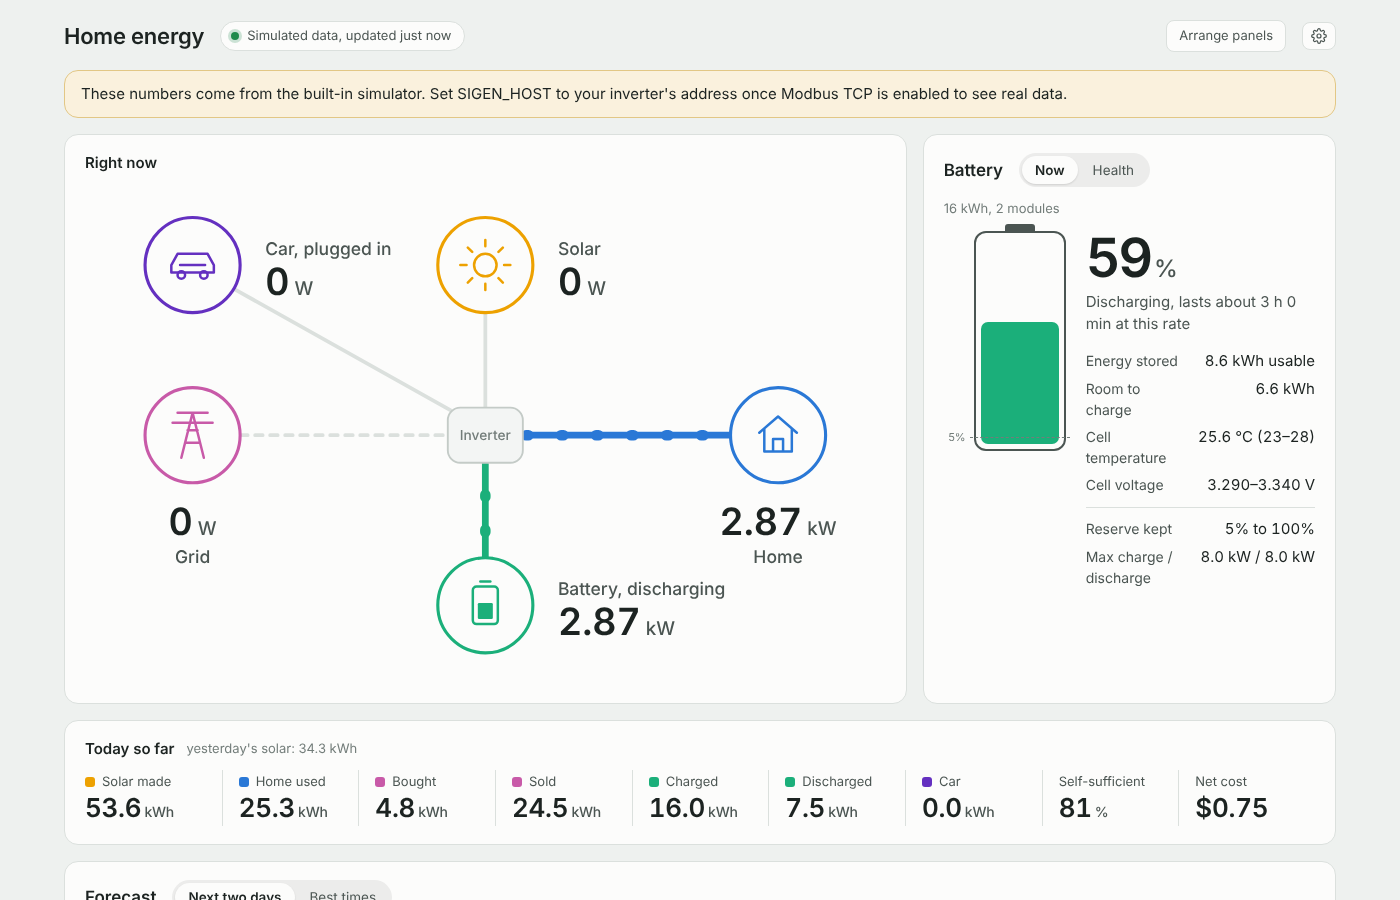
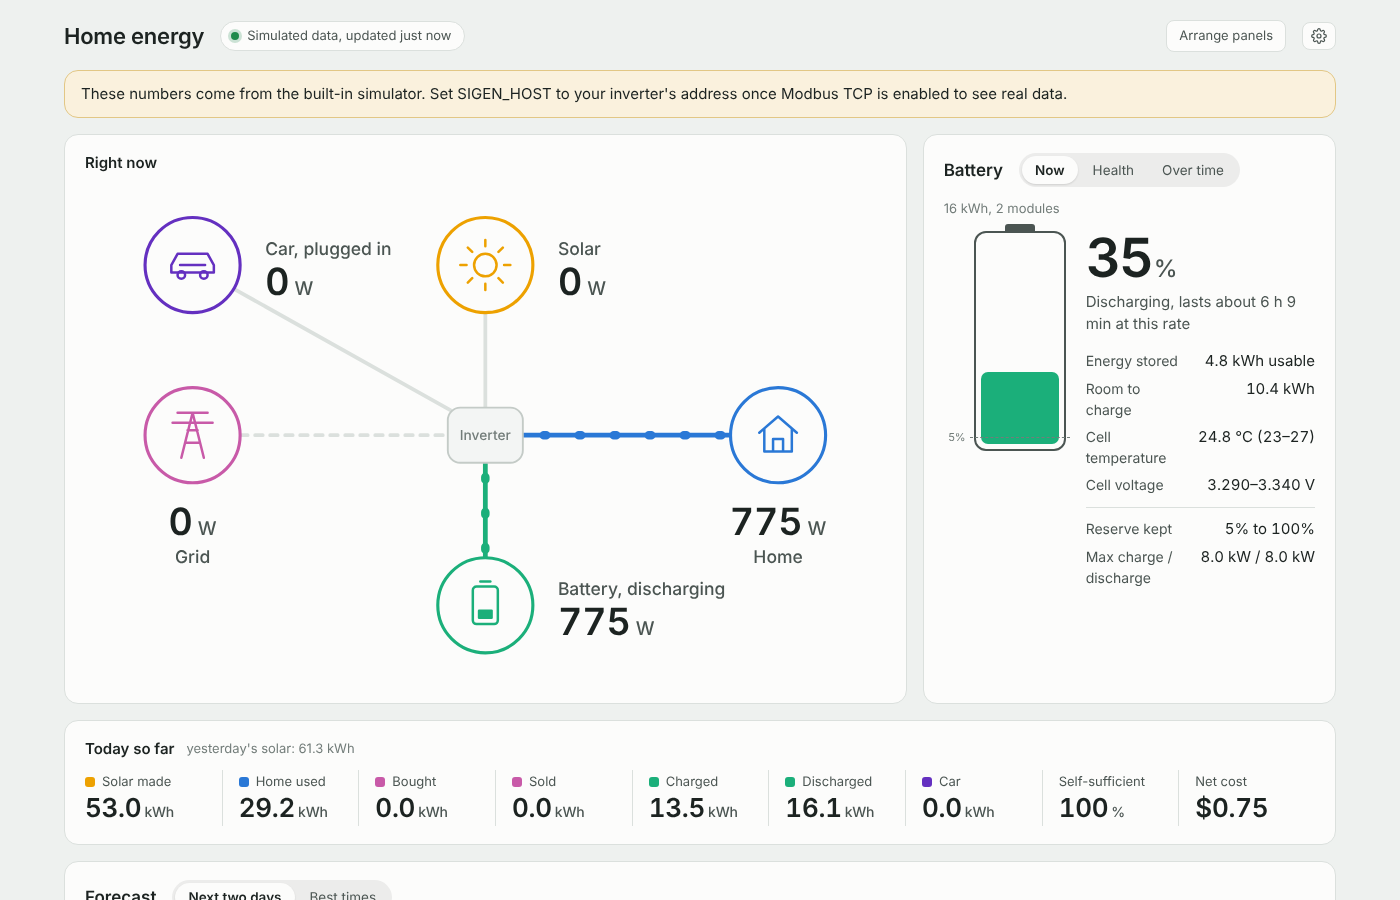
Battery: Over time as its own tab, one height for every tab; Money opens on Payback; System on temperature (2.0.1)
Claude-Session: https://claude.ai/code/session_01M1HyKp74bF4tARcQSQsc8G

diff --git a/web/index.html b/web/index.html
@@ -99,7 +99,7 @@
       <p class="flow-caption visually-hidden" id="caption" aria-live="polite"></p>
     </section>
 
-    <section class="panel span-4 group" data-panel="battery" data-name="Battery" data-together>
+    <section class="panel span-4 group" data-panel="battery" data-name="Battery" data-together data-steady>
       <div class="group-head"><h2>Battery</h2><div class="tabs" role="tablist" aria-label="Battery"></div></div>
       <div class="tabpage" data-tab="Now" role="tabpanel" id="batt-now" aria-labelledby="batt-h">
       <div class="panel-head"><h2 id="batt-h">Battery</h2><span class="sub" id="batt-sub"></span></div>
@@ -129,8 +129,10 @@
         <div class="today wear-tiles" id="wear-tiles"></div>
         <p class="chart-note" id="wear-note"></p>
             </div>
+      </div>
+      <div class="tabpage" data-tab="Over time" role="tabpanel" id="batt-over">
         <div class="part trend" id="tb" hidden>
-          <div class="panel-head"><h3>Over time</h3><div class="legend" id="tb-legend"></div><span class="spacer"></span>
+          <div class="panel-head"><div class="legend" id="tb-legend"></div><span class="spacer"></span>
           <div class="seg" id="tb-metric" role="group" aria-label="Measure">
             <button type="button" data-m="battery" aria-pressed="true">Health</button>
             <button type="button" data-m="batt_temp" aria-pressed="false">Temperature</button>
@@ -384,7 +386,7 @@
       </div>
     </section>
 
-    <section class="panel span-12 group" data-panel="money" data-name="Money">
+    <section class="panel span-12 group" data-panel="money" data-name="Money" data-default="Payback">
       <div class="group-head"><h2>Money</h2><div class="tabs" role="tablist" aria-label="Money"></div></div>
       <div class="tabpage" data-tab="Plans" role="tabpanel" id="wi-panel" aria-labelledby="wi-h" hidden>
       <div class="panel-head"><h2 id="wi-h">What if</h2><span class="sub" id="wi-sub"></span><span class="spacer"></span>
@@ -432,8 +434,8 @@
         <div class="part trend" id="ty" hidden>
           <div class="panel-head"><h3>Over time</h3><div class="legend" id="ty-legend"></div><span class="spacer"></span>
           <div class="seg" id="ty-metric" role="group" aria-label="Measure">
-            <button type="button" data-m="insulation" aria-pressed="true">Insulation</button>
-            <button type="button" data-m="inv_temp" aria-pressed="false">Inverter temperature</button>
+            <button type="button" data-m="inv_temp" aria-pressed="true">Temperature</button>
+            <button type="button" data-m="insulation" aria-pressed="false">Insulation</button>
           </div>
           <div class="seg" id="ty-range" role="group" aria-label="Time range">
             <button type="button" data-d="90" aria-pressed="false">3 months</button>

diff --git a/web/tabs.js b/web/tabs.js
@@ -2,11 +2,13 @@
 // last one chosen remembered in this browser. A tab with nothing to show yet (its page is hidden,
 // or every part on it is) is left out, and the panel hides when none has anything.
 // Panels marked data-together (Battery, System) show all their tabs side by side instead, when
-// they're wide enough (Full width in Arrange panels).
+// they're wide enough (Full width in Arrange panels). Panels marked data-steady keep one height
+// whichever tab is showing.
 (function () {
   const S = window.Sigen, el = S.el;
   const groups = [...document.querySelectorAll("section.group[data-panel]")];
-  const KEY = (g) => "sigen.tab." + g.dataset.panel;
+  // a panel's own default tab (data-default) is part of the key, so changing it starts afresh
+  const KEY = (g) => "sigen.tab." + g.dataset.panel + (g.dataset.default ? "." + g.dataset.default : "");
 
   const pages = (g) => [...g.querySelectorAll(":scope > .tabpage")];
   const ready = (p) => !p.hidden && (!p.querySelector(":scope > .part") || [...p.querySelectorAll(":scope > .part")].some((x) => !x.hidden));
@@ -19,11 +21,16 @@
     if (hide) return;
     const together = g.hasAttribute("data-together") && avail.length > 1 && g.clientWidth >= TOGETHER_W;
     if (g.classList.contains("together") !== together) { g.classList.toggle("together", together); redraw(); }
+    // data-steady: every tab takes the height of the tallest, so switching doesn't resize the panel
+    g.classList.toggle("steady", g.hasAttribute("data-steady") && !together);
     let cur = g.dataset.tab;
     const want = S.store.get(KEY(g));
     // the remembered tab, as soon as it has something to show (its data can arrive after the page loads)
     if (!g._chosen && want && avail.some((p) => p.dataset.tab === want)) cur = want;
-    else if (!g._chosen && !want) cur = avail[0].dataset.tab;  // nothing chosen yet: the first tab, once it has data
+    else if (!g._chosen && !want) {  // nothing chosen yet: the panel's default, or its first tab, once it has data
+      const def = avail.find((p) => p.dataset.tab === g.dataset.default);
+      cur = (def || avail[0]).dataset.tab;
+    }
     if (!avail.some((p) => p.dataset.tab === cur)) cur = avail[0].dataset.tab;
     const changed = g.dataset.tab !== cur;
     g.dataset.tab = cur;

diff --git a/web/style.css b/web/style.css
@@ -675,11 +675,18 @@ body.wall-mode { overflow-x: hidden; }
 .tabpage.inactive { display: none; }
 .tabpage { container-type: inline-size; }
 /* wide Battery and System: every tab side by side, no tab bar */
-.group.together { display: grid; grid-template-columns: minmax(320px, 400px) minmax(0, 1fr); column-gap: 28px; align-content: start; }
+.group.together { display: grid; grid-template-columns: minmax(320px, 400px) minmax(0, 1fr); grid-template-rows: auto auto auto 1fr; column-gap: 28px; align-content: start; }
 .group.together > .group-head { grid-column: 1 / -1; }
 .group.together > .group-head .tabs { display: none; }
 .group.together > .tabpage.inactive { display: block; }
-.group.together > .tabpage:not([hidden]) ~ .tabpage:not([hidden]) { border-left: 1px solid var(--rule); padding-left: 28px; }
+.group.together > .tabpage:not([hidden]) ~ .tabpage:not([hidden]) { grid-column: 2; border-left: 1px solid var(--rule); padding-left: 28px; }
+.group.together > .group-head + .tabpage { grid-column: 1; grid-row: 2 / span 3; }
+.group.together > .tabpage:not([hidden]) ~ .tabpage:not([hidden]) ~ .tabpage:not([hidden]) { padding-top: 18px; margin-top: 4px; border-top: 1px solid var(--rule); }
+/* steady panels: all tabs share one cell, the hidden ones invisible but still taking their room */
+.group.steady { display: grid; grid-template-columns: minmax(0, 1fr); align-content: start; }
+.group.steady > .group-head { grid-row: 1; }
+.group.steady > .tabpage { grid-row: 2; grid-column: 1; }
+.group.steady > .tabpage.inactive:not([hidden]) { display: block; visibility: hidden; pointer-events: none; }
 .tabpage > .panel-head > h2 { display: none; }
 .tabpage > .panel-head:not(:has(> :not(h2):not(:empty))) { display: none; }
 .part + .part { margin-top: 22px; padding-top: 16px; border-top: 1px solid var(--rule); }

diff --git a/web/dashboard.js b/web/dashboard.js
@@ -515,7 +515,7 @@
   const TRENDS = [
     { id: "tb", metric: "battery", days: 365 },
     { id: "ts", metric: "pvidx", days: 365 },
-    { id: "ty", metric: "insulation", days: 365 },
+    { id: "ty", metric: "inv_temp", days: 365 },
   ];
   const trCache = {};
   function trendSeries(m, d, t) {
@@ -571,7 +571,7 @@
     if (!box) return;
     const has = !!(d && d.days && d.days.length >= 2);
     if (box.hidden === has) box.hidden = !has;
-    if (!has || (box.closest(".tabpage.inactive") && !box.closest(".group.together"))) return;
+    if (!has || (box.closest(".tabpage.inactive") && !box.closest(".group.together, .group.steady"))) return;
     const t = d.days.map(dayT), lg = $(tr.id + "-legend"), chart = $(tr.id + "-chart");
     const dayTitle = (x) => new Date(x * 1000).toLocaleDateString([], { weekday: "short", day: "numeric", month: "short", year: "numeric" });
     const r = trendSeries(tr.metric, d, t);

diff --git a/collector/config.py b/collector/config.py
@@ -48,7 +48,7 @@ def load_settings_file():
 
 SETTINGS_PATH = load_settings_file()
 
-VERSION = "2.0.0"
+VERSION = "2.0.1"
 ENV = os.environ.get
 SIMULATE = ENV("SIGEN_SIMULATE", "0") == "1"
 HOST = ENV("SIGEN_HOST", "")

diff --git a/README.md b/README.md
@@ -670,17 +670,17 @@ Ten panels; related things share a panel, with tabs. Each panel remembers the ta
 (per browser), and a tab with nothing to show yet is left out:
 
 * **Right now** and **Today so far**
-* **Battery**: Now · Health (wear, warranty, health and temperature over time)
+* **Battery**: Now · Health (wear and warranty) · Over time (health and temperature)
 * **Forecast**: Next two days (battery outlook, weather, four days of solar) · Best times
 * **Car charging**
 * **Prices and the grid**: Your price · The grid
 * **History**: Power · Days · Months · Always-on
 * **Solar**: Strings · Limits · Long term (solar vs weather)
-* **Money**: Plans · Payback · Trading
-* **System**: Status · Health (insulation and inverter temperature over time)
+* **Money**: Payback · Plans · Trading (opens on Payback)
+* **System**: Status · Health (inverter temperature and insulation over time)
 
-Battery and System show both tabs side by side when the panel is wide enough (Full width in
-Arrange panels).
+Battery and System show all their tabs together when the panel is wide enough (Full width in
+Arrange panels). Battery keeps one height whichever tab is showing.
 
 ### Ultrawide monitors
 

diff --git a/CHANGELOG.md b/CHANGELOG.md
@@ -2,6 +2,14 @@
 
 Release notes for each tagged version. The Docker image is tagged with the same version.
 
+## 2.0.1
+
+- **Battery** has three tabs, Now · Health · Over time, and keeps the same height whichever is
+  showing (the tallest tab sets it), so the row beside Right now doesn't jump. At full width all
+  three show together: Now on the left, Health above Over time on the right
+- **Money** opens on Payback
+- **System**'s chart opens on the inverter's temperature (Insulation is the other choice)
+
 ## 2.0.0
 
 A cleaner dashboard: ten panels instead of twenty-one, related things together in tabs, and
